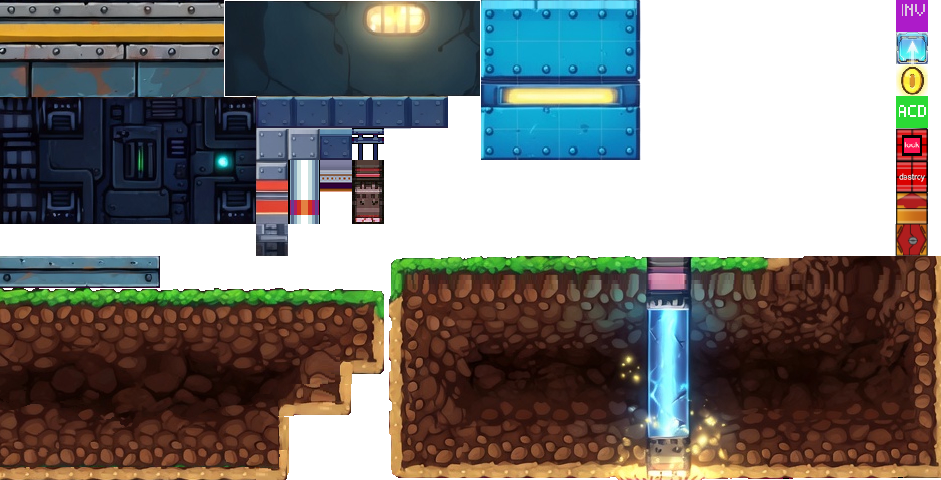
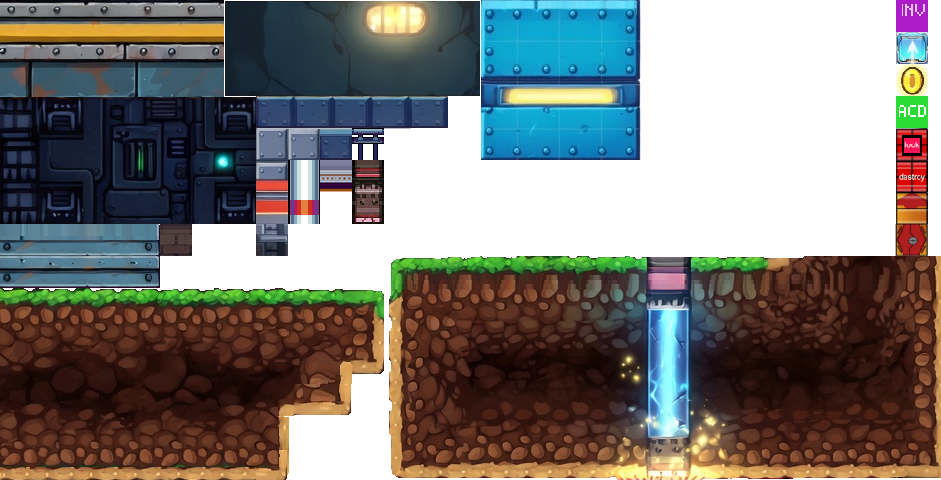
more changes

Changed region(s): [[0.0, 0.4688, 0.2157, 0.5312]]

diff --git a/assets/scenes/NewLevel1.js b/assets/scenes/NewLevel1.js
@@ -52,23 +52,23 @@ class NewLevel1 extends BaseScene {
 		this.add.existing(player);
 
 		// wallLight
-		this.add.image(485, 679, "wallLight");
+		this.add.image(930, 640, "wallLight");
 
 		// upperTile
 		const upperTile = new_level1.createLayer("upperTile", [], 0, 0);
 
 		// tutiSupa1
-		const tutiSupa1 = this.add.image(136, 542, "tutiSupa1");
+		const tutiSupa1 = this.add.image(148, 546, "tutiSupa1");
 		tutiSupa1.scaleX = 0.5;
 		tutiSupa1.scaleY = 0.5;
 
 		// tutiSupa2
-		const tutiSupa2 = this.add.image(317, 542, "tutiSupa2");
+		const tutiSupa2 = this.add.image(330, 679, "tutiSupa2");
 		tutiSupa2.scaleX = 0.5;
 		tutiSupa2.scaleY = 0.5;
 
 		// tutiSupa3
-		const tutiSupa3 = this.add.image(722, 542, "tutiSupa3");
+		const tutiSupa3 = this.add.image(735, 679, "tutiSupa3");
 		tutiSupa3.scaleX = 0.5;
 		tutiSupa3.scaleY = 0.5;
 
@@ -89,6 +89,11 @@ class NewLevel1 extends BaseScene {
 		// sampoShooter
 		const sampoShooter = new SampoShooter(this, 93, 366);
 		this.add.existing(sampoShooter);
+
+		// hand
+		const hand = this.add.image(1059, 701, "hand");
+		hand.scaleY = -1;
+		hand.angle = -124;
 
 		// lists
 		const doors = [];

diff --git a/assets/scenes/BaseScene.js b/assets/scenes/BaseScene.js
@@ -135,6 +135,17 @@ class BaseScene extends Phaser.Scene {
 			this.tilespriteBG.height=this.layer.height;
 		//	this.tilespriteBG.setOrigin(0.5,0.5);
 		}
+
+		// use totalfondo asset as a fullscreen filter layer
+		const totalFondoOverlay = this.add.image(this.cameras.main.centerX, this.cameras.main.centerY, "totalfondo");
+		totalFondoOverlay.displayWidth = this.cameras.main.width;
+		totalFondoOverlay.displayHeight = this.cameras.main.height;
+		totalFondoOverlay.setAlpha(1);
+		totalFondoOverlay.setDepth(150);
+		totalFondoOverlay.setScrollFactor(0);
+		totalFondoOverlay.setDepth(1000);
+		new FixedToCamera(totalFondoOverlay);
+		this.totalFondoOverlay = totalFondoOverlay;
 		//MUSIC
 		this.superbravo_gameplay_chip01 = this.sound.add('superbravo_gameplay_chip01');
 
